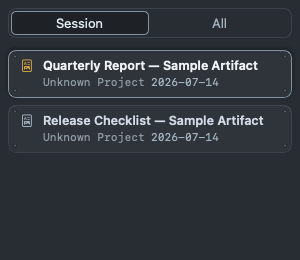
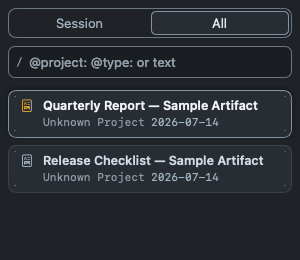
Refine Dark Dimmed surface hierarchy

diff --git a/app/Sources/App/SharedUI/Theme.swift b/app/Sources/App/SharedUI/Theme.swift
@@ -3,23 +3,25 @@ import QuestmasterCore
 
 enum AppPalette {
     static let window = NSColor(hex: 0x1c2128)
-    static let panel = NSColor(hex: 0x2d333b)
-    static let panelAlt = NSColor(hex: 0x111419)
+    static let panel = NSColor(hex: 0x22272e)
+    static let item = NSColor(hex: 0x2d333b)
+    static let panelAlt = window
     static let artifactListColumn = panel
     static let artifactViewerBackground = artifactListColumn
     static let terminal = window
     static let line = NSColor(hex: 0x444c56)
     static let lineSoft = NSColor(hex: 0x23282e)
     static let lineSoftSubtle = NSColor(hex: 0x1c2228)
-    static let controlFill = NSColor(hex: 0x21262d)
+    static let controlFill = item
+    static let controlBorder = NSColor(hex: 0x768390)
     static let activeControlBorder = NSColor(hex: 0x909dab)
     static let activeText = NSColor(hex: 0xe6edf3)
     static let text = NSColor(hex: 0xd8dee9)
     static let bright = NSColor(hex: 0xf2f5f8)
     static let muted = NSColor(hex: 0xadbac7)
     static let dim = NSColor(hex: 0x9da7b1)
-    static let selection = NSColor(hex: 0x2d333b)
-    static let hoverBackground = NSColor(hex: 0x21262d)
+    static let selection = item
+    static let hoverBackground = item
     static let hoverBorder = NSColor(hex: 0x909dab)
     static let connectorLine = NSColor(hex: 0x3f4750)
 

diff --git a/app/Sources/App/Shell/ShellPaneContainers.swift b/app/Sources/App/Shell/ShellPaneContainers.swift
@@ -20,7 +20,7 @@ private final class FirstMouseHostingView<Content: View>: NSHostingView<Content>
 private func configureSideCard(_ view: NSView) {
     view.wantsLayer = true
     view.layer?.backgroundColor = AppPalette.panel.cgColor
-    view.layer?.borderColor = AppPalette.line.cgColor
+    view.layer?.borderColor = AppPalette.controlBorder.cgColor
     view.layer?.borderWidth = 1
     view.layer?.cornerRadius = ShellMetrics.sideCardCornerRadius
     view.layer?.masksToBounds = true
@@ -65,7 +65,7 @@ final class TrackerShellView: NSView {
     }
 
     func setRegionActive(_ active: Bool) {
-        layer?.borderColor = (active ? AppPalette.activeSideCardBorder : AppPalette.line).cgColor
+        layer?.borderColor = (active ? AppPalette.activeSideCardBorder : AppPalette.controlBorder).cgColor
     }
 }
 
@@ -174,7 +174,7 @@ final class DockShellView: NSView {
     }
 
     func setRegionActive(_ active: Bool) {
-        layer?.borderColor = (active ? AppPalette.activeSideCardBorder : AppPalette.line).cgColor
+        layer?.borderColor = (active ? AppPalette.activeSideCardBorder : AppPalette.controlBorder).cgColor
     }
 
     func updateTabs(

diff --git a/app/Sources/App/Dock/Artifact/ArtifactDockView.swift b/app/Sources/App/Dock/Artifact/ArtifactDockView.swift
@@ -143,10 +143,10 @@ struct ArtifactDockView: View {
         .frame(minHeight: 32)
         .background(
             RoundedRectangle(cornerRadius: Token.Radius.control)
-                .fill(AppPalette.panel.swiftUI)
+                .fill(AppPalette.panelAlt.swiftUI)
                 .overlay(
                     RoundedRectangle(cornerRadius: Token.Radius.control)
-                        .strokeBorder((filterFocused ? AppPalette.accent : AppPalette.line).swiftUI, lineWidth: 1)
+                        .strokeBorder((filterFocused ? AppPalette.accent : AppPalette.controlBorder).swiftUI, lineWidth: 1)
                 )
         )
         .accessibilityLabel("Filter artifacts")

diff --git a/app/Sources/App/Dock/QuestDockView.swift b/app/Sources/App/Dock/QuestDockView.swift
@@ -85,8 +85,8 @@ struct QuestDockView: View {
         .frame(minHeight: 32)
         .background(
             RoundedRectangle(cornerRadius: Token.Radius.control)
-                .fill(AppPalette.panel.swiftUI)
-                .overlay(RoundedRectangle(cornerRadius: Token.Radius.control).strokeBorder((filterFocused ? AppPalette.accent : AppPalette.line).swiftUI, lineWidth: 1))
+                .fill(AppPalette.panelAlt.swiftUI)
+                .overlay(RoundedRectangle(cornerRadius: Token.Radius.control).strokeBorder((filterFocused ? AppPalette.accent : AppPalette.controlBorder).swiftUI, lineWidth: 1))
         )
         .accessibilityLabel("Filter quests")
     }

diff --git a/app/Sources/App/SharedUI/ItemCard.swift b/app/Sources/App/SharedUI/ItemCard.swift
@@ -40,15 +40,9 @@ struct ItemCardShape: View {
         isHighlighted ? AppPalette.hoverBorder : AppPalette.line
     }
 
-    // A touch brighter than the surrounding pane background, so cards read
-    // as distinct without much contrast.
-    private var fillColor: NSColor {
-        AppPalette.panel.blended(withFraction: 0.03, of: .white) ?? AppPalette.panel
-    }
-
     var body: some View {
         RoundedRectangle(cornerRadius: Self.cornerRadius)
-            .fill(fillColor.swiftUI)
+            .fill(AppPalette.item.swiftUI)
             .overlay(bezel)
             .overlay(alignment: .leading) { accentBar }
             .overlay(

diff --git a/app/Sources/App/SharedUI/ViewModifiers.swift b/app/Sources/App/SharedUI/ViewModifiers.swift
@@ -8,7 +8,7 @@ extension View {
     ) -> some View {
         overlay(
             RoundedRectangle(cornerRadius: cornerRadius)
-                .strokeBorder((focused ? AppPalette.accent : AppPalette.line).swiftUI, lineWidth: focused ? 2 : 1)
+                .strokeBorder((focused ? AppPalette.accent : AppPalette.controlBorder).swiftUI, lineWidth: focused ? 2 : 1)
         )
     }
 

diff --git a/app/Sources/App/SharedUI/SegmentedPicker.swift b/app/Sources/App/SharedUI/SegmentedPicker.swift
@@ -41,7 +41,7 @@ struct SegmentedPicker<Option: Hashable>: View {
         }
         .padding(Token.Spacing.tight)
         .frame(maxWidth: .infinity)
-        .borderedCard(fill: AppPalette.panel)
+        .borderedCard(fill: AppPalette.panel, borderColor: AppPalette.controlBorder)
     }
 }
 
